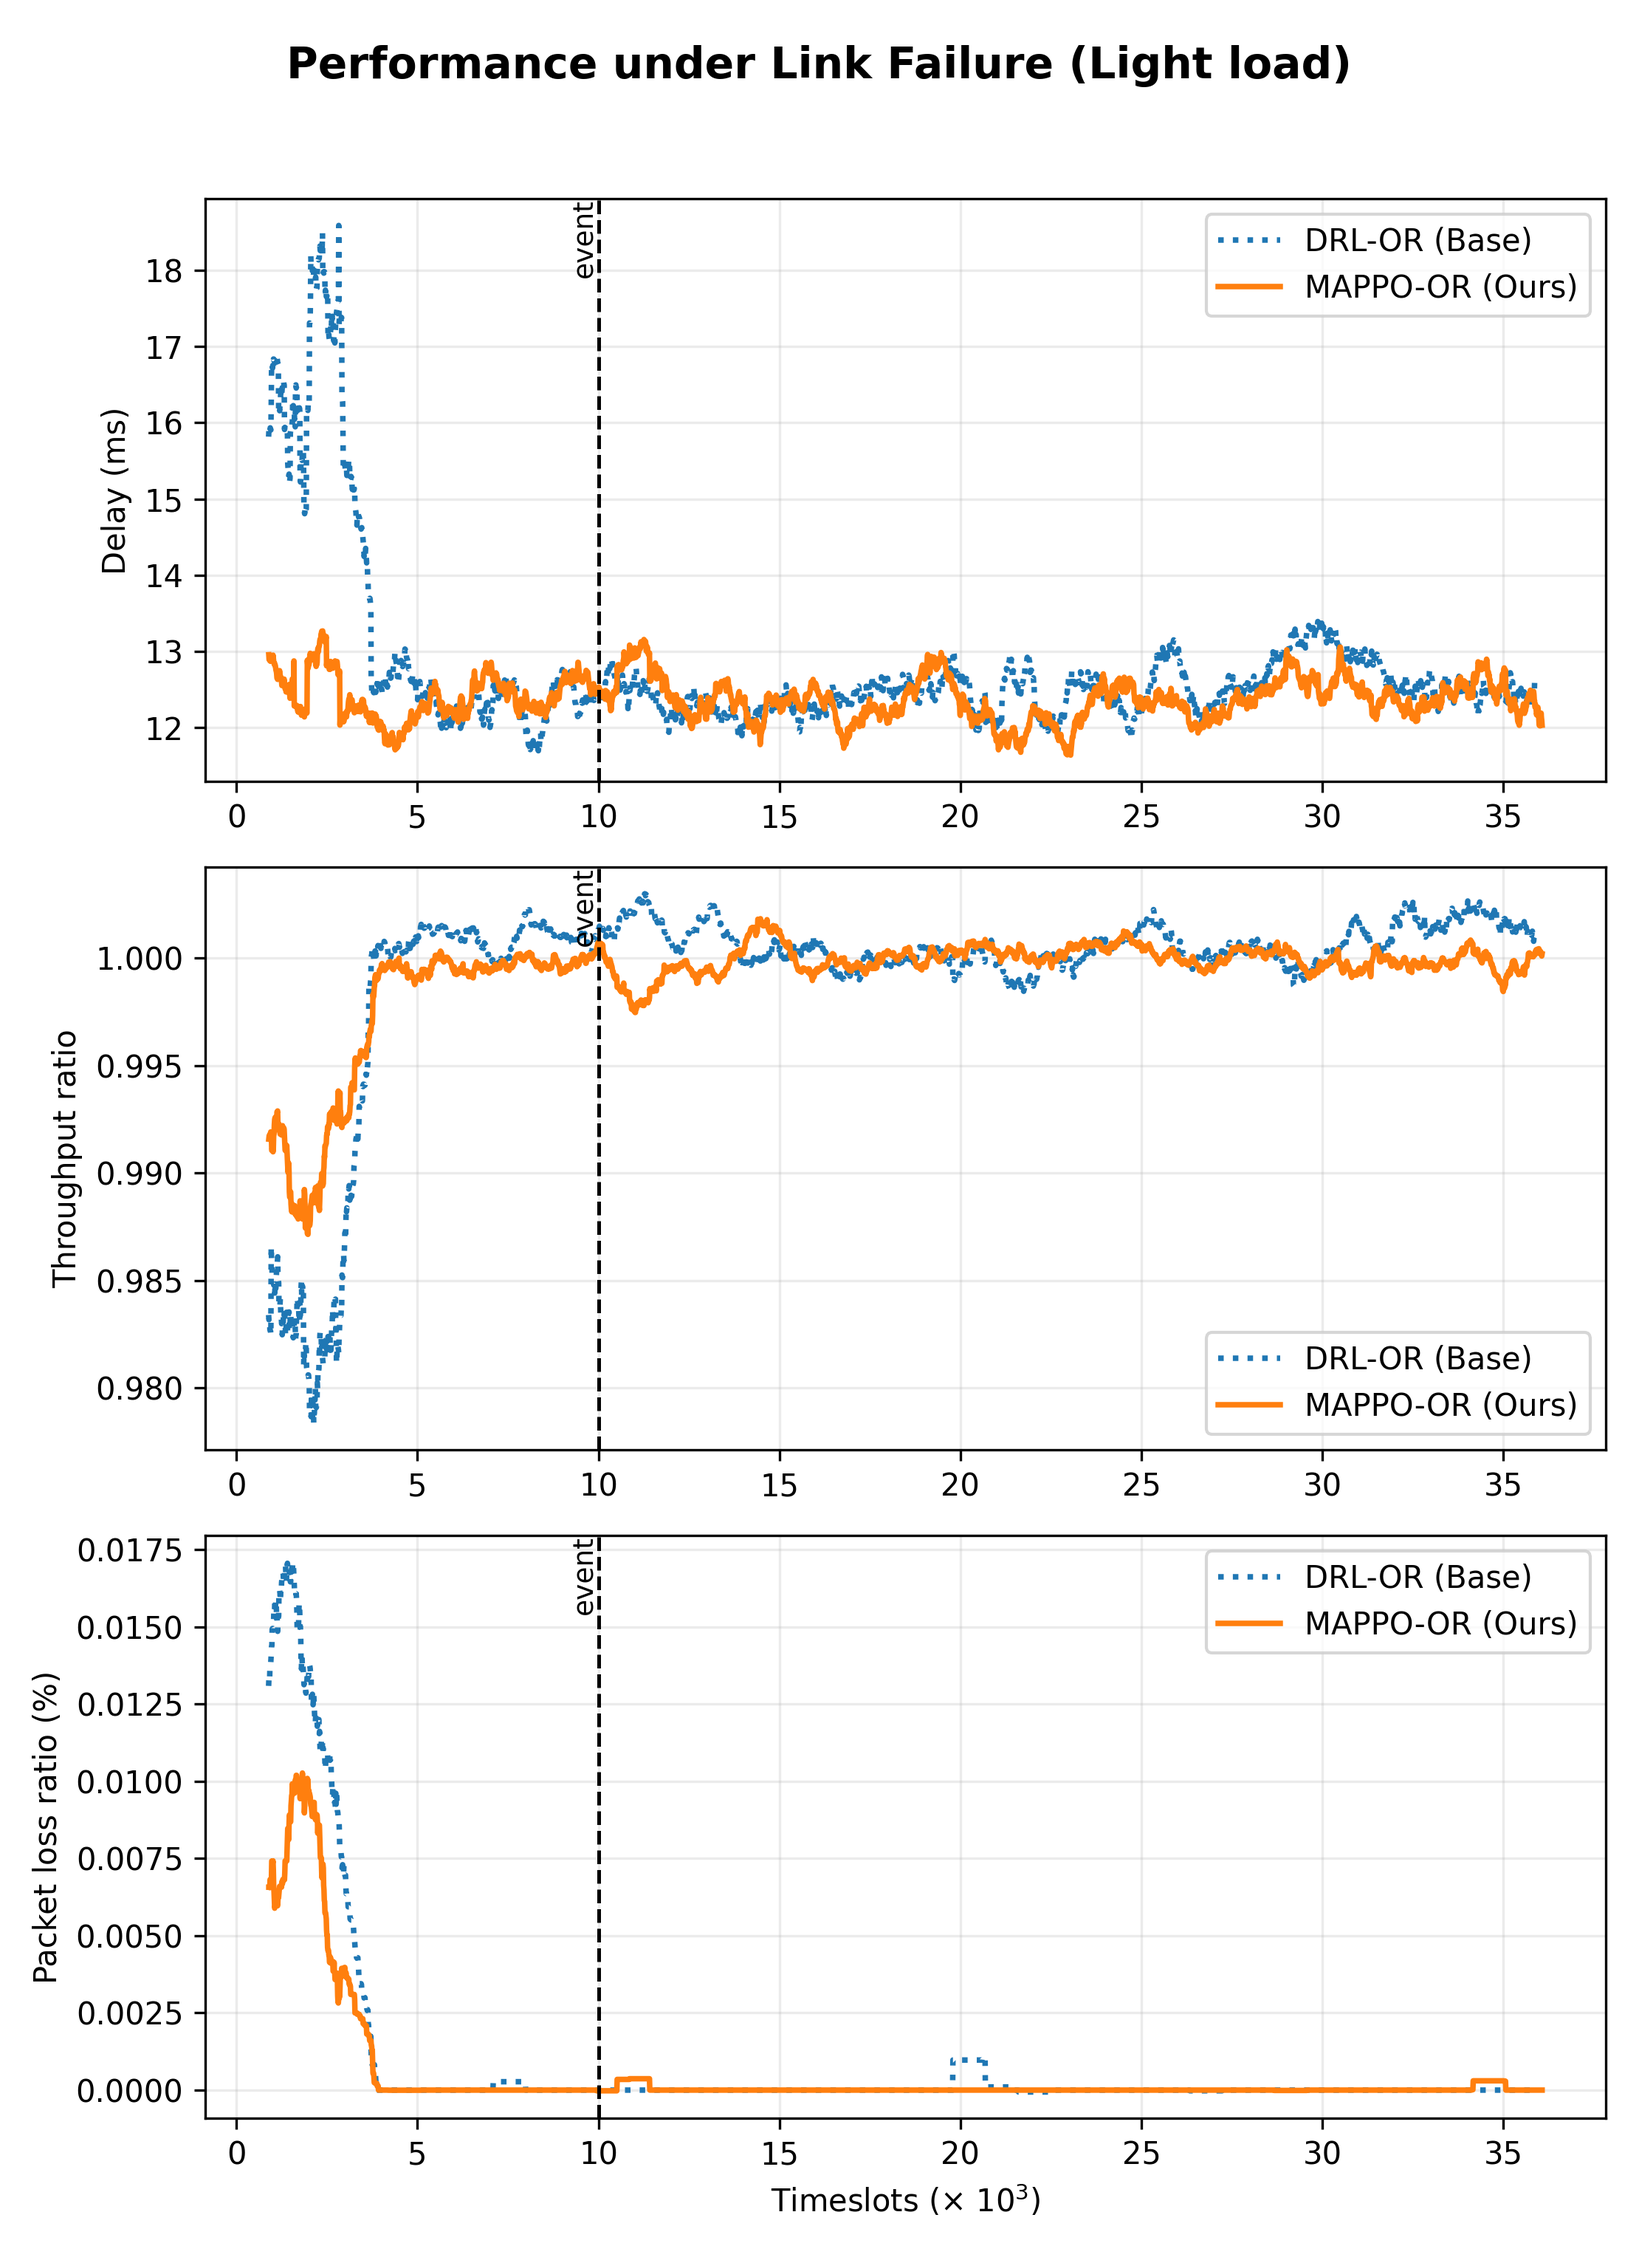
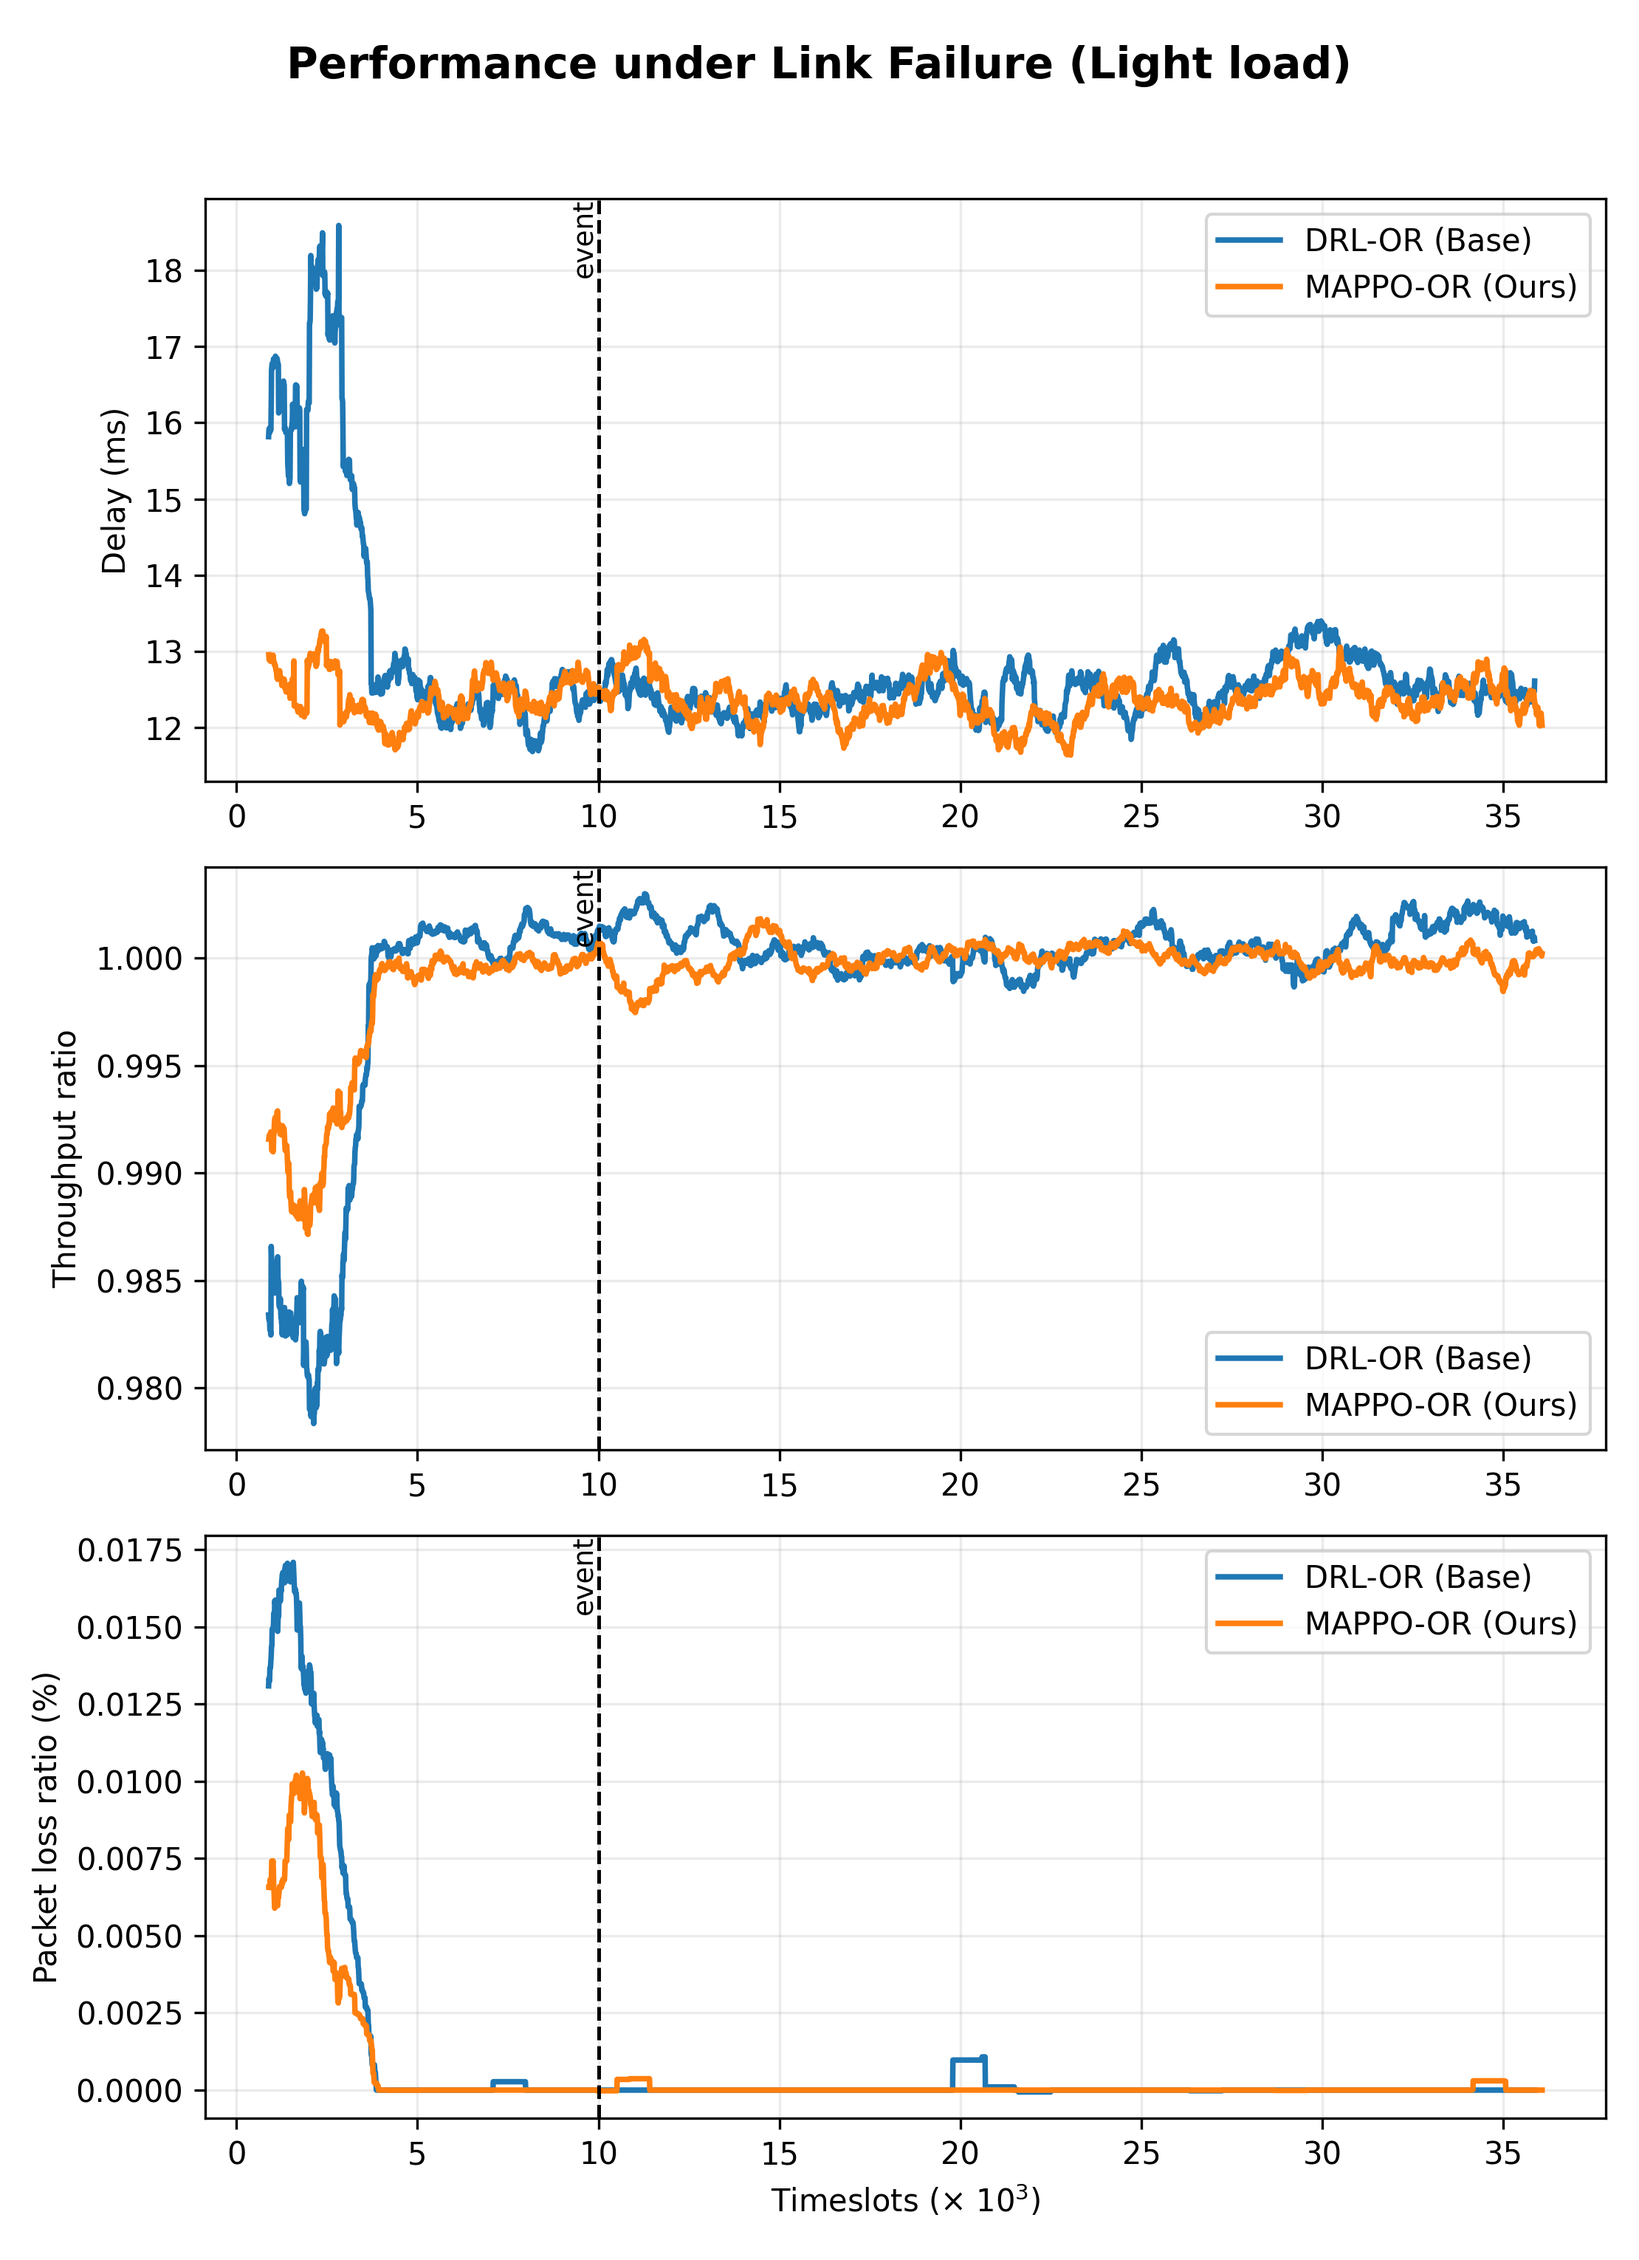
add new figs

diff --git a/fignew4.py b/fignew4.py
@@ -1,0 +1,300 @@
+#!/usr/bin/env python3
+"""
+Create one 3x3 figure from plain log folders.
+
+Columns: initialization, link_failure, traffic_change
+Rows: delay, throughput, loss
+
+Example:
+python plot_ch5_3x3_plain_logs.py \
+  --root ./log \
+  --load light \
+  --methods DRL-OR MAPPO-OR \
+  --event link_failure:10000 \
+  --event traffic_change:10000 \
+  --out ./figures_ch5_3x3/combined_3x3.png \
+  --moving-window 100
+"""
+
+from __future__ import annotations
+import argparse
+import re
+from pathlib import Path
+from typing import Dict, List, Optional, Tuple
+
+import matplotlib.pyplot as plt
+import numpy as np
+
+
+SCENARIO_LABELS = {
+    "initialization": "Initialization",
+    "link_failure": "Link Failure",
+    "traffic_change": "Traffic Change",
+}
+
+METRIC_LABELS = {
+    "delay": "Delay (ms)",
+    "throughput": "Throughput ratio",
+    "loss": "Packet loss ratio (%)",
+}
+
+METHOD_LABELS = {
+    "DRL-OR": "DRL-OR (Base)",
+    "MAPPO-OR": "MAPPO-OR (Ours)",
+    "PPO": "DRL-OR (Base)",
+    "MAPPO": "MAPPO-OR (Ours)",
+    "SPR": "SPR / SHR",
+    "LBR": "LBR / WP",
+    "QoSR": "QoSR",
+}
+
+METHOD_STYLES = {
+    "DRL-OR": {"linestyle": "-", "linewidth": 1.8},
+    "MAPPO-OR": {"linestyle": "-", "linewidth": 1.8},
+    "SPR": {"linestyle": "--", "linewidth": 1.4},
+    "LBR": {"linestyle": "-.", "linewidth": 1.4},
+    "QoSR": {"linestyle": (0, (3, 1, 1, 1)), "linewidth": 1.4},
+}
+
+
+def canonical_method(method: str) -> str:
+    return {"PPO": "DRL-OR", "MAPPO": "MAPPO-OR", "SHR": "SPR", "WP": "LBR"}.get(method.strip(), method.strip())
+
+
+def canonical_metric(metric: str) -> str:
+    return {
+        "latency": "delay",
+        "packet_loss": "loss",
+        "loss_ratio": "loss",
+        "packet_loss_ratio": "loss",
+    }.get(metric.lower().strip(), metric.lower().strip())
+
+
+def run_dir(root: Path, method: str, scenario: str, load: str) -> Optional[Path]:
+    method = canonical_method(method)
+
+    if method == "MAPPO-OR":
+        if scenario == "initialization":
+            name = "mappo_initialization_heavy" if load == "heavy" else "mappo_initialization"
+        elif scenario == "link_failure":
+            name = "mappo_link_failure"
+        elif scenario == "traffic_change":
+            name = "mappo_traffic_change"
+        else:
+            return None
+        p = root / name
+        return p if p.exists() else None
+
+    if method == "DRL-OR":
+        if scenario == "initialization":
+            name = "ppo_initialization_heavy" if load == "heavy" else "ppo_initialization"
+        elif scenario == "link_failure":
+            name = "ppo_link_failure"
+        elif scenario == "traffic_change":
+            name = "ppo_traffic_change"
+        else:
+            return None
+        p = root / name
+        return p if p.exists() else None
+
+    suffix = "heavyload" if load == "heavy" else "lightload"
+    if method == "SPR":
+        name = f"Abi_SHR_5000_{suffix}"
+    elif method == "LBR":
+        name = f"Abi_WP_5000_{suffix}"
+    elif method == "QoSR":
+        name = f"Abi_QoS_5000_{suffix}"
+    else:
+        return None
+
+    p = root / name
+    return p if p.exists() else None
+
+
+def parse_log_file(path: Path) -> Tuple[np.ndarray, np.ndarray]:
+    number = re.compile(r"[-+]?(?:\d*\.\d+|\d+)(?:[eE][-+]?\d+)?")
+    xs, ys = [], []
+    with path.open("r", encoding="utf-8", errors="ignore") as f:
+        for idx, line in enumerate(f):
+            vals = [float(v) for v in number.findall(line)]
+            if not vals:
+                continue
+            if len(vals) >= 2:
+                xs.append(vals[0])
+                ys.append(vals[-1])
+            else:
+                xs.append(idx)
+                ys.append(vals[0])
+    return np.asarray(xs, dtype=float), np.asarray(ys, dtype=float)
+
+
+def read_series(root: Path, method: str, scenario: str, metric: str, type_id: int, load: str, verbose: bool = False):
+    metric = canonical_metric(metric)
+    d = run_dir(root, method, scenario, load)
+    if d is None:
+        if verbose:
+            print(f"[WARN] Missing dir: method={method}, scenario={scenario}, load={load}")
+        return None
+
+    f = d / f"{metric}_type{type_id}.log"
+    if not f.exists():
+        if verbose:
+            print(f"[WARN] Missing file: {f}")
+        return None
+
+    x, y = parse_log_file(f)
+    if len(y) == 0:
+        if verbose:
+            print(f"[WARN] Empty file: {f}")
+        return None
+
+    if verbose:
+        print(f"[OK] {method} {scenario} {metric} type{type_id}: {f}")
+    return x, y
+
+
+def average_types(curves: List[Tuple[np.ndarray, np.ndarray]]) -> Optional[Tuple[np.ndarray, np.ndarray]]:
+    curves = [(x, y) for x, y in curves if len(x) > 1 and len(y) > 1]
+    if not curves:
+        return None
+
+    start = max(float(x[0]) for x, _ in curves)
+    end = min(float(x[-1]) for x, _ in curves)
+
+    if end <= start:
+        n = min(len(y) for _, y in curves)
+        return curves[0][0][:n], np.vstack([yy[:n] for _, yy in curves]).mean(axis=0)
+
+    n = min(min(len(x) for x, _ in curves), 4000)
+    grid = np.linspace(start, end, n)
+    vals = [np.interp(grid, x, y) for x, y in curves]
+    return grid, np.vstack(vals).mean(axis=0)
+
+
+def get_curve(root: Path, method: str, scenario: str, metric: str, load: str, type_id: Optional[int], num_types: int, verbose: bool = False):
+    if type_id is not None:
+        return read_series(root, method, scenario, metric, type_id, load, verbose)
+
+    curves = []
+    for tid in range(num_types):
+        c = read_series(root, method, scenario, metric, tid, load, verbose)
+        if c is not None:
+            curves.append(c)
+    return average_types(curves)
+
+
+def moving_average(y: np.ndarray, window: int) -> np.ndarray:
+    if window <= 1 or len(y) == 0:
+        return y
+    window = min(window, len(y))
+    return np.convolve(y, np.ones(window) / window, mode="valid")
+
+
+def smooth_curve(x: np.ndarray, y: np.ndarray, moving_window: int) -> Tuple[np.ndarray, np.ndarray]:
+    if moving_window <= 1:
+        return x, y
+    y2 = moving_average(y, moving_window)
+    x2 = x[-len(y2):]
+    return x2, y2
+
+
+def parse_events(items: List[str]) -> Dict[str, float]:
+    out = {}
+    for item in items:
+        scenario, step = item.split(":", 1)
+        out[scenario.strip()] = float(step)
+    return out
+
+
+def main():
+    parser = argparse.ArgumentParser()
+    parser.add_argument("--root", type=Path, default=Path("./log"))
+    parser.add_argument("--out", type=Path, default=Path("./figures_ch5_3x3/combined_3x3_delay_throughput_loss.png"))
+    parser.add_argument("--out-dir", type=Path, default=Path("./figures_ch5_3x3_by_type"))
+    parser.add_argument("--load", choices=["light", "heavy"], default="light")
+    parser.add_argument("--methods", nargs="+", default=["DRL-OR", "MAPPO-OR"])
+    parser.add_argument("--scenarios", nargs="+", default=["initialization", "link_failure", "traffic_change"])
+    parser.add_argument("--metrics", nargs="+", default=["delay", "throughput", "loss"])
+    parser.add_argument("--event", action="append", default=[])
+    parser.add_argument("--num-types", type=int, default=4)
+    parser.add_argument("--split-by-type", action="store_true")
+    parser.add_argument("--moving-window", type=int, default=100)
+    parser.add_argument("--x-divisor", type=float, default=1000.0)
+    parser.add_argument("--verbose", action="store_true")
+    args = parser.parse_args()
+
+    methods = [canonical_method(m) for m in args.methods]
+    metrics = [canonical_metric(m) for m in args.metrics]
+    events = parse_events(args.event)
+
+    type_ids: List[Optional[int]] = list(range(args.num_types)) if args.split_by_type else [None]
+
+    for type_id in type_ids:
+        fig, axes = plt.subplots(
+            len(metrics),
+            len(args.scenarios),
+            figsize=(5.8 * len(args.scenarios), 3.35 * len(metrics)),
+            squeeze=False,
+        )
+
+        for r, metric in enumerate(metrics):
+            for c, scenario in enumerate(args.scenarios):
+                ax = axes[r][c]
+                plotted = False
+
+                for method in methods:
+                    curve = get_curve(args.root, method, scenario, metric, args.load, type_id, args.num_types, args.verbose)
+                    if curve is None:
+                        continue
+                    x, y = smooth_curve(curve[0], curve[1], args.moving_window)
+
+                    style = METHOD_STYLES.get(method, {"linestyle": "-", "linewidth": 1.5})
+                    ax.plot(
+                        x / args.x_divisor,
+                        y,
+                        label=METHOD_LABELS.get(method, method),
+                        linestyle=style["linestyle"],
+                        linewidth=style["linewidth"],
+                    )
+                    plotted = True
+
+                if scenario in events:
+                    ex = events[scenario] / args.x_divisor
+                    ax.axvline(ex, color="black", linestyle="--", linewidth=1.1)
+                    ax.text(ex, ax.get_ylim()[1], "event", rotation=90, va="top", ha="right", fontsize=8)
+
+                if r == 0:
+                    ax.set_title(SCENARIO_LABELS.get(scenario, scenario), fontsize=13, fontweight="bold")
+                if c == 0:
+                    ax.set_ylabel(METRIC_LABELS.get(metric, metric), fontsize=11)
+                if r == len(metrics) - 1:
+                    ax.set_xlabel("Timeslots (× $10^3$)" if args.x_divisor == 1000 else "Timeslots")
+
+                ax.grid(True, alpha=0.25)
+                if not plotted:
+                    ax.text(0.5, 0.5, "No data", transform=ax.transAxes, ha="center", va="center")
+                if r == 0 and c == 0 and plotted:
+                    ax.legend(loc="best", fontsize=9)
+
+        load_label = "Heavy load" if args.load == "heavy" else "Light load"
+        type_suffix = "" if type_id is None else f" — Type {type_id}"
+        fig.suptitle(
+            f"MAPPO-OR vs DRL-OR across Evaluation Scenarios ({load_label}){type_suffix}",
+            fontsize=16,
+            fontweight="bold",
+        )
+        fig.tight_layout(rect=[0, 0, 1, 0.96])
+
+        if type_id is None:
+            out = args.out
+        else:
+            out = args.out_dir / args.load / f"type{type_id}" / "combined_3x3_delay_throughput_loss.png"
+
+        out.parent.mkdir(parents=True, exist_ok=True)
+        fig.savefig(out, dpi=300)
+        plt.close(fig)
+        print(f"Saved: {out.resolve()}")
+
+
+if __name__ == "__main__":
+    main()

diff --git a/fignew2.py b/fignew2.py
@@ -1104,7 +1104,7 @@ METHOD_STYLES = {
     "LBR": {"linestyle": "-.", "linewidth": 1.5},
     "WP": {"linestyle": "-.", "linewidth": 1.5},
     "QoSR": {"linestyle": (0, (3, 1, 1, 1)), "linewidth": 1.5},
-    "DRL-OR": {"linestyle": ":", "linewidth": 1.8},
+    "DRL-OR": {"linestyle": "-", "linewidth": 1.8},
     "PPO": {"linestyle": ":", "linewidth": 1.8},
     "MAPPO-OR": {"linestyle": "-", "linewidth": 1.8},
     "MAPPO": {"linestyle": "-", "linewidth": 1.8},
